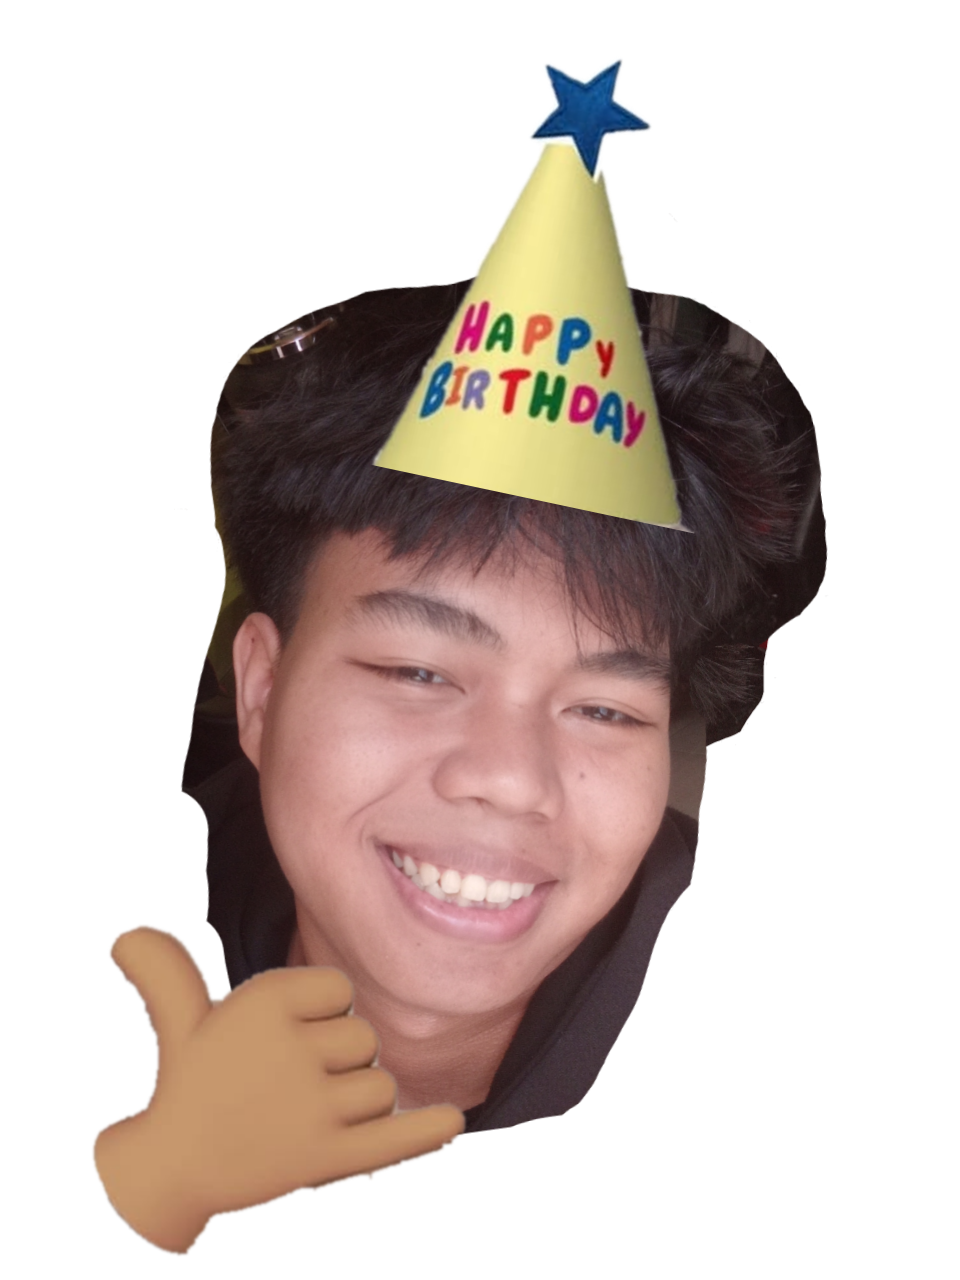
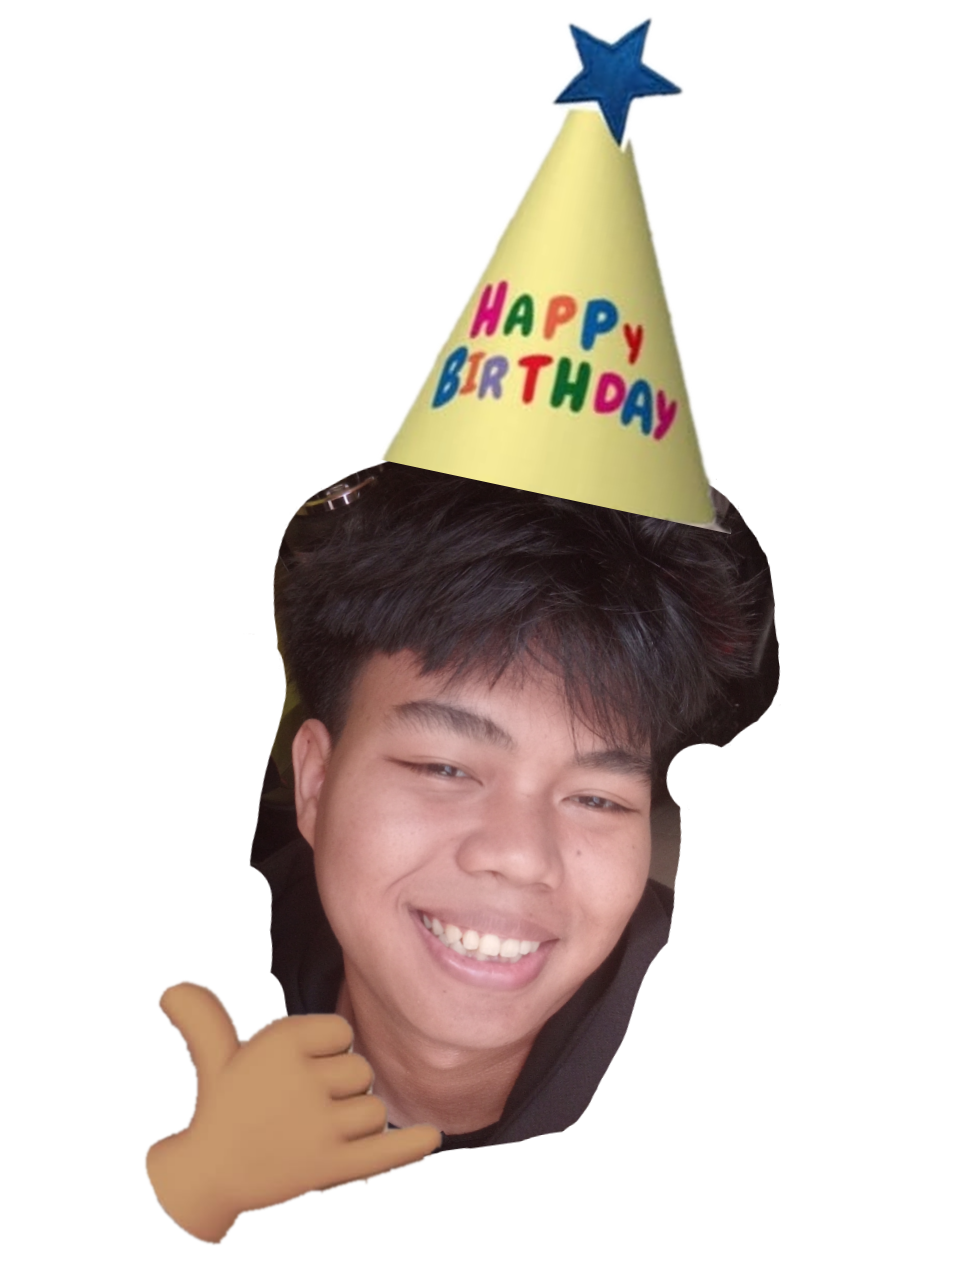
ganti saya.png dan perbesar foto

Changed region(s): [[0.0938, 0.0, 0.875, 1.0]]

diff --git a/index.html b/index.html
@@ -309,7 +309,7 @@ function build(){
   var ln=lineTex(nm.inkW-.8,.3);
   var cat=IMG.cat?imgTex(IMG.cat,17,true):null;
   var let_=IMG.letter?imgTex(IMG.letter,17.4,false):null;
-  var me=IMG.me?imgTex(IMG.me,15,false):null;
+  var me=IMG.me?imgTex(IMG.me,17.5,false):null;
   var catW=cat?cat.w:0, letW=let_?let_.w:0, meW=me?me.w+.6:0;
 
   // susunan (satuan: lebar layar / 100), titik awal kiri-atas
@@ -443,7 +443,7 @@ var fontsP=(document.fonts&&document.fonts.load)?Promise.all([
 ]):Promise.resolve();
 Promise.all([
   Promise.race([fontsP,new Promise(function(r){setTimeout(r,3000);})]),
-  loadImg('kucing.png?v=10'),loadImg('surat.png?v=10'),loadImg('saya.png?v=5')
+  loadImg('kucing.png?v=10'),loadImg('surat.png?v=10'),loadImg('saya.png?v=6')
 ]).then(function(r){IMG.cat=r[1];IMG.letter=r[2];IMG.me=r[3];build();});
 
 /* ================= TOMBOL NEXT ================= */
